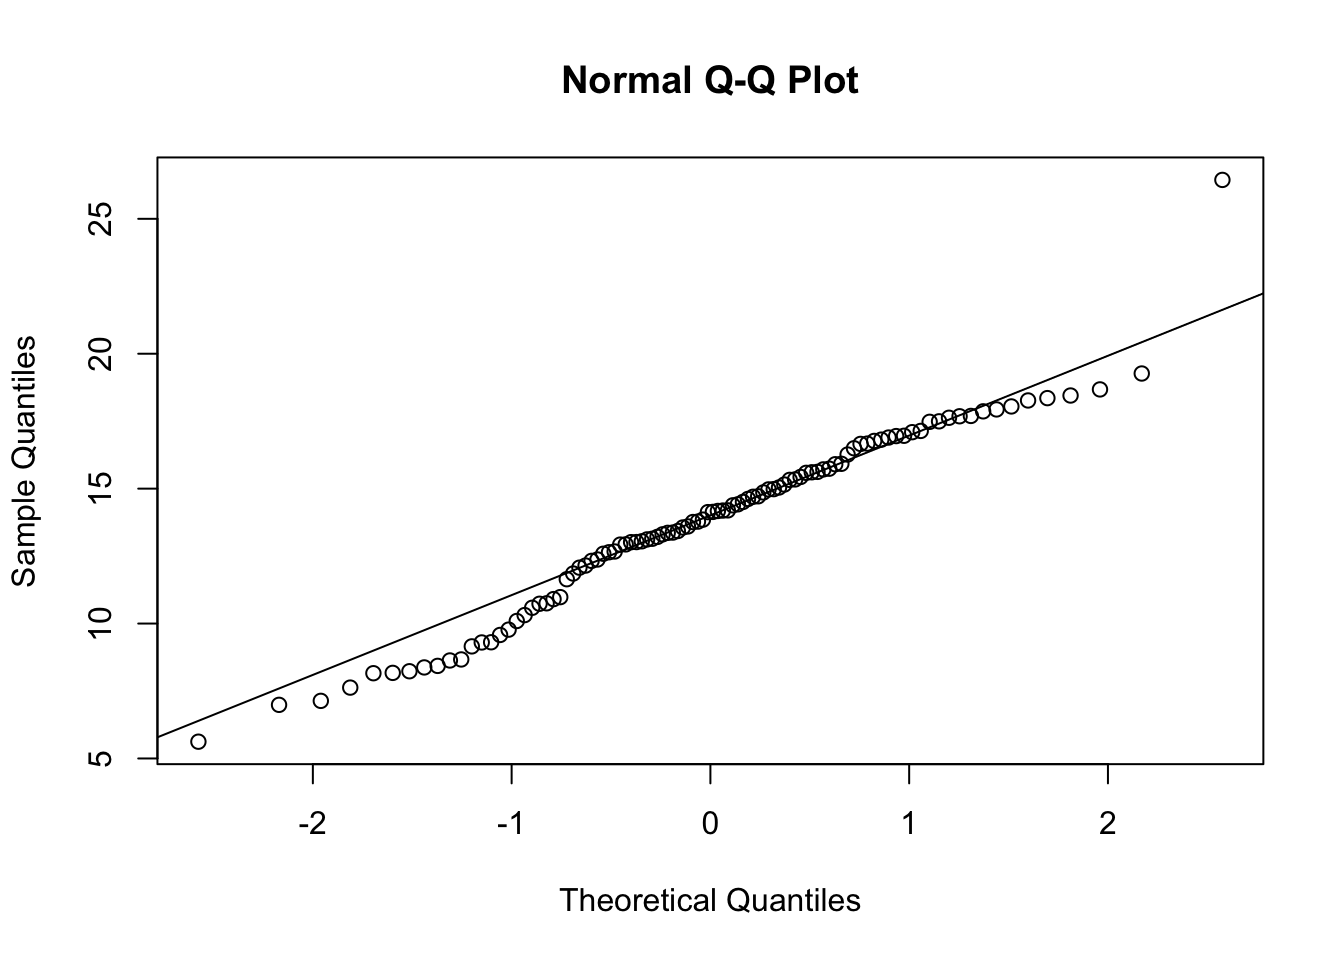
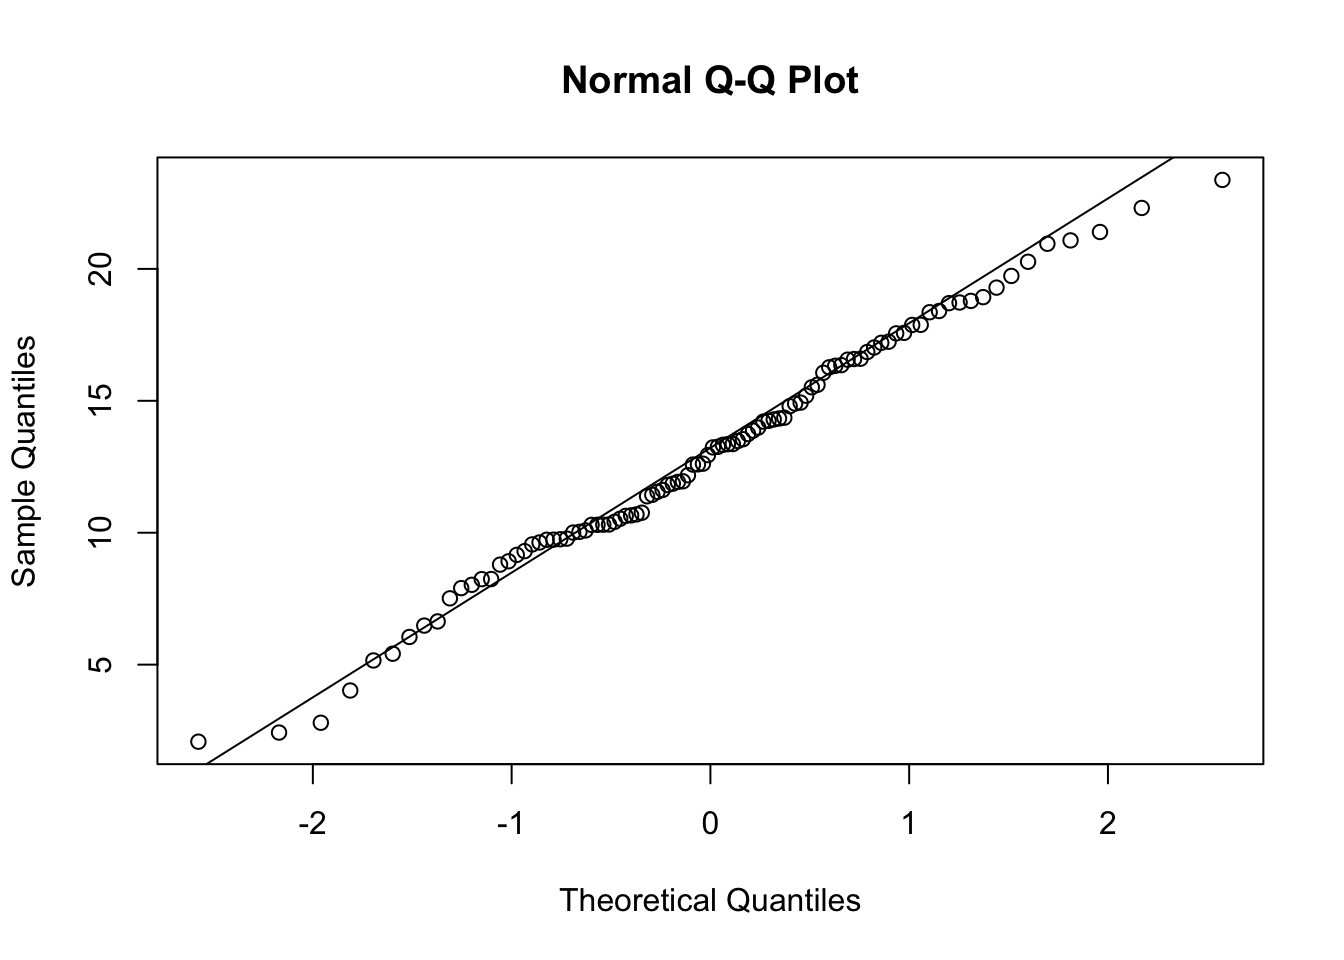
minor edits to language in labs 0 - 3

diff --git a/RLabs/00_R_tutorial_Loading_R_and_RStudio.html b/RLabs/00_R_tutorial_Loading_R_and_RStudio.html
@@ -9,10 +9,9 @@
 <meta http-equiv="X-UA-Compatible" content="IE=EDGE" />
 
 
-<meta name="author" content="Whitlock and Schluter" />
 
 
-<title>Loading R and RStudio</title>
+<title>Labs using R: UBC Edition  Loading R and RStudio</title>
 
 <script src="site_libs/header-attrs-2.31/header-attrs.js"></script>
 <script src="site_libs/jquery-3.6.0/jquery-3.6.0.min.js"></script>
@@ -460,8 +459,8 @@ document.addEventListener("DOMContentLoaded", function() {
 
 
 
-<h1 class="title toc-ignore">Loading R and RStudio</h1>
-<h4 class="author">Whitlock and Schluter</h4>
+<h1 class="title toc-ignore">Labs using R: <em>UBC Edition</em>
+<br>Loading R and RStudio</h1>
 
 </div>
 
@@ -473,15 +472,15 @@ be found <a href="index.html">here</a>.</em></p>
 <p><br></p>
 <p>For these labs, you will need two apps on your computer: R and
 RStudio. Both of these are free, available to download without charge
-from the web. This setup requires a laptop or desktop computer. RStudio
+from the web. This setup requires a laptop or desktop computer; RStudio
 is not natively supported on Chromebooks or iPads/tablets. Desktop
 computers are available to use in 2004 Biological Sciences during BIOL
-300 tutorial times; please consult your section’s TA.</p>
+300 tutorial times (please consult your section’s TA).</p>
 <p>Advanced users are permitted to use VS Code or Positron, but note
-that these apps are not fully endorsed by the BIOL 300 instructional
-team. You may need to adapt instructions on your own. See the sections
-at the end of this page for more information about using VS Code or
-Positron in BIOL 300.</p>
+that these apps are not fully endorsed by us. You may need to adapt
+instructions and/or troubleshoot IDE-related problems on your own. See
+the sections at the end of this page for more information about using VS
+Code or Positron in BIOL 300.</p>
 <p><br></p>
 <div id="step-1-install-r" class="section level1">
 <h1>Step 1: Install R</h1>
@@ -498,11 +497,11 @@ the <code>.dmg</code> file that appears in your downloads folder, and
 then form the folder that opens, click on the <code>XQuartz.pkg</code>
 file. Follow the installation instructions in the new window that
 opens.</p>
-<p>To load R, choose the MacOS link from the CRAN website above. From
-the resulting page (called “R for Mac OS X”) choose the
-<code>.pkg</code> file that matches your version of the operating system
-– usually this is the first one. Once the <code>.pkg</code> file has
-downloaded fully, open it and follow instructions on screen.</p>
+<p>To get R, choose the MacOS link from the CRAN website above. From the
+resulting page (called “R for Mac OS X”) choose the <code>.pkg</code>
+file that matches your version of the operating system – usually this is
+the first one. Once the <code>.pkg</code> file has downloaded fully,
+open it and follow instructions on screen.</p>
 <p><strong>Windows</strong> – After choosing Windows from the CRAN page,
 click on the first link for labeled “base”. Then click on the large top
 link “Download R-X.Y.Z for Windows”. Run the <code>.exe</code> file that
@@ -524,18 +523,18 @@ that downloads.</p>
 </div>
 <div id="step-3-get-abdlabs" class="section level1">
 <h1>Step 3: Get ABDLabs</h1>
-<p>A <code>.zip</code> file that contains all the data sets, R scripts,
-and some other features can be downloaded in a <a
+<p>A <code>.zip</code> file for BIOL 300 that contains all the data
+sets, R scripts, and some other features can be downloaded in a <a
 href="ABDLabs.zip">folder called ABDLabs</a>. <strong>After you download
-this file, first ensure that you move it outside of your computer’s
-<code>Downloads</code> folder</strong>. Keeping this within the
-Downloads problem often causes permission errors and other bugs. Most
-BIOL 300 students end up moving <code>ABDLabs.zip</code> to the Desktop.
-After moving the <code>.zip</code> file, unzip it. It should then open a
-folder called <code>ABDLabs</code>. Windows users: please be sure to
-fully unzip the entire file and not just open the zip file, as this can
-cause problems. The best practice is to right-click on it and choose
-“Extract All” or a similar option.</p>
+this <code>.zip</code> file, first ensure that you move it outside of
+your computer’s <code>Downloads</code> folder</strong>. Keeping this
+within the Downloads problem often causes permission errors and other
+bugs. Most BIOL 300 students end up moving <code>ABDLabs.zip</code> to
+the Desktop. After moving the <code>.zip</code> file, unzip it. It
+should then open a folder called <code>ABDLabs</code>. Windows users:
+please be sure to fully unzip the entire file and not just open the zip
+file, as this can cause problems; the best practice is to right-click on
+it and choose “Extract All” or a similar option.</p>
 <p>Inside <code>ABDLabs</code> is one file and two folders. The folder
 <code>DataForLabs</code> contains all the data sets that you will need
 to complete these labs; any new data we create during the course should
@@ -552,8 +551,8 @@ see further guidance below.</p>
 <p>There is a file in the <code>ABDLabs</code> folder called
 <code>ABDLabs.Rproj</code>. You can double click on this file to start R
 and RStudio automatically. If you start your session from this file, it
-will automatically load some packages of extra functionality that you
-will need for some tasks. Opening <code>ABDLabs.Rproj</code> will also
+will automatically set your working directory in a way that aligns
+smoothly with our tutorials. Opening <code>ABDLabs.Rproj</code> will
 automatically tell R to look inside the <code>ABDLabs</code> folder for
 files like the data sets. Starting from this file will make your life a
 little easier, and will also enforce a standard environment for all
@@ -565,28 +564,28 @@ submitted work.</p>
 <p><em>These labs are designed around RStudio, but we permit usage of
 Visual Studio Code (VS Code) or Positron for those who are already
 familiar with these apps. If you are not familiar with ether VS Code or
-Positron, we strongly recommend that you use RStudio for these
-labs.</em></p>
+Positron, use RStudio for these labs and don’t worry about what is
+written below.</em></p>
 <p>The BIOL 300 instructional team only officially supports RStudio for
 our labs. The tutorials, screenshots, and troubleshooting guidance
 throughout the course assume that you are using RStudio. If you choose
 to use VS Code or Positron instead, you may occasionally need to adapt
-instructions and/or troubleshoot applications-specific issues on your
+instructions and/or troubleshoot application-specific issues on your
 own.</p>
-<p>Regardless of the app you choose, all submitted R scripts must be
-<code>.R</code> file types and must follow BIOL 300 course conventions.
-Your submitted scripts must be able to reproduce results when run in a
-standard RStudio environment. Course conventions include formatting
-expectations, commenting practices, file naming, and script
-organization.</p>
-<p>BIOL 300 does not support the use of Jupyter notebooks. While
+<p><strong>Regardless of the app you choose, all submitted R scripts
+must be <code>.R</code> file types and must follow BIOL 300 course
+conventions.</strong> Your submitted scripts must be able to reproduce
+results when run in a standard RStudio environment. Course conventions
+include formatting expectations, commenting practices, file naming, and
+script organization. Consult your TA if you are uncertain about any of
+these.</p>
+<p>BIOL 300 does not support the use of Jupyter notebooks. Although
 advanced users may be able to configure Jupyter to work with R,
 troubleshooting support for these setups will be limited.</p>
-<div id="using-vs-code-with-r" class="section level2">
-<h2>Using VS Code with R</h2>
+<div id="using-r-in-vs-code" class="section level2">
+<h2>Using R in VS Code</h2>
 <p>To use R in VS Code, you will first need to install the R extension
-for VS Code.</p>
-<p>After installing VS Code, open the Extensions panel and search for
+for VS Code. Within VS Code, open the Extensions panel and search for
 “R” by Yuki Ueda (<code>REditorSupport.r</code>). Installing this
 extension provides features such as syntax highlighting, code execution,
 plotting support, and connections to the R console.</p>
@@ -599,15 +598,13 @@ VS Code’s Explorer or via <code>File → Open Folder...</code>. Doing so
 helps ensure that relative file paths used throughout the labs work
 correctly.</p>
 </div>
-<div id="using-positron-with-r" class="section level2">
-<h2>Using Positron with R</h2>
-<p>Positron is a newer data-science environment developed by Posit, the
-company behind RStudio. It combines features of RStudio and VS Code into
-a modern interface that supports R, Python, Quarto, and other tools.</p>
-<p>Because Positron is still under active development, some features may
-behave differently than they do in RStudio. However, many people find
-that it offers a familiar workflow while also providing additional
-flexibility and modern editing tools.</p>
+<div id="using-r-in-positron" class="section level2">
+<h2>Using R in Positron</h2>
+<p>Positron and RStudio are developed by the same company: Posit.
+Positron combines features of RStudio and VS Code into a modern
+interface that supports R, Python, Quarto, and other tools. Because
+Positron is still under active development, some features may behave
+differently than they do in RStudio.</p>
 <p>The <code>.Rproj</code> file included in the <code>ABDLabs</code>
 folder is primarily intended for use with RStudio. Positron can still
 work with projects that contain <code>.Rproj</code> files, but it does

diff --git a/RLabs/01_R_tutorial_Intro_to_R.html b/RLabs/01_R_tutorial_Intro_to_R.html
@@ -923,9 +923,9 @@ feel that you would like to skip just one of the bits of information and
 fill in the rest, that is fine too. The data sheets do not identify
 students by name. Pass the sheet to the TA when you are finished. We’ll
 use these data in subsequent labs.</p>
-<p><br> 2. For each week, create an R script that captures the commands
-that you use to answer the questions. Use a <code>#</code> at the
-beginning of each comment line.</p>
+<p><br> 2. For each week, create an R script that captures the code that
+you use to answer the questions, along with the answers. Use a
+<code>#</code> at the beginning of each comment line.</p>
 <ol style="list-style-type: lower-alpha">
 <li><p>Open a new R script file. Start by adding comments with your name
 and the week (Week 1) at the top.</p></li>
@@ -934,12 +934,14 @@ comment, followed by any R code you use to do the question, and give the
 answers as comments.</p></li>
 </ol>
 <p>For example, here is what part of your script might look like.</p>
-<div class="sourceCode" id="cb38"><pre class="sourceCode r"><code class="sourceCode r"><span id="cb38-1"><a href="#cb38-1" tabindex="-1"></a><span class="co"># R Labs, Week 1</span></span>
-<span id="cb38-2"><a href="#cb38-2" tabindex="-1"></a><span class="co"># Terry T. Student</span></span>
+<div class="sourceCode" id="cb38"><pre class="sourceCode r"><code class="sourceCode r"><span id="cb38-1"><a href="#cb38-1" tabindex="-1"></a><span class="co"># Terry T. Student</span></span>
+<span id="cb38-2"><a href="#cb38-2" tabindex="-1"></a><span class="co"># BIOL 300, Lab 1</span></span>
 <span id="cb38-3"><a href="#cb38-3" tabindex="-1"></a></span>
-<span id="cb38-4"><a href="#cb38-4" tabindex="-1"></a><span class="co"># Question 4a</span></span>
-<span id="cb38-5"><a href="#cb38-5" tabindex="-1"></a><span class="dv">15</span><span class="sc">*</span><span class="dv">17</span></span>
-<span id="cb38-6"><a href="#cb38-6" tabindex="-1"></a><span class="co"># [1] 255</span></span></code></pre></div>
+<span id="cb38-4"><a href="#cb38-4" tabindex="-1"></a><span class="co"># Question 3b</span></span>
+<span id="cb38-5"><a href="#cb38-5" tabindex="-1"></a><span class="co"># Yes</span></span>
+<span id="cb38-6"><a href="#cb38-6" tabindex="-1"></a></span>
+<span id="cb38-7"><a href="#cb38-7" tabindex="-1"></a><span class="co"># Question 4a</span></span>
+<span id="cb38-8"><a href="#cb38-8" tabindex="-1"></a><span class="co"># body_temp_c</span></span></code></pre></div>
 <p><br> 3. All of the commands used in the “Learning the Tools” section
 for this lab are in a script called <code>LearningToolsWeek1.R</code> in
 the <a href="ABDLabs.zip">ABDLabs folder</a> that you should have
@@ -950,8 +952,10 @@ labs.)</p>
 <li><p>Run most or all of the commands in R. Did you get the same
 answers as shown in the text?</p></li>
 </ol>
-<p><br> 4. For each of the following, come up with a object name that
-would be appropriate to use in R for the listed variable:</p>
+<p><br> 4. For each of the variables below, come up with a object name
+that would be appropriate to use in R. Remember that
+<code>camelCase</code> and <code>snake_case</code> are usually good
+conventions.</p>
 <ol style="list-style-type: lower-alpha">
 <li><p>Body temperature in Celsius</p></li>
 <li><p>How much aspirin is given per dose for a patient</p></li>

diff --git a/RLabs/03_R_tutorial_Sampling.html b/RLabs/03_R_tutorial_Sampling.html
@@ -663,7 +663,7 @@ randomly chooses integers from a given range. To randomly sample 5
 individuals from 25 possibilities, we can use:</li>
 </ol>
 <div class="sourceCode" id="cb1"><pre class="sourceCode r"><code class="sourceCode r"><span id="cb1-1"><a href="#cb1-1" tabindex="-1"></a><span class="fu">sample.int</span>(<span class="at">n =</span> <span class="dv">25</span>, <span class="at">size =</span> <span class="dv">5</span>)</span></code></pre></div>
-<pre><code>## [1] 22 18 19 10  4</code></pre>
+<pre><code>## [1] 10 22 24 12 13</code></pre>
 <p>This tells R to give us a sample of <code>size = 5</code> numbers
 randomly chosen from the integers 1 to <code>n</code>, and here we set
 <code>n = 25</code>. (When you run this line you will almost certainly
@@ -714,7 +714,7 @@ you a step-by-step understaning of how it works.</p>
 <span id="cb3-2"><a href="#cb3-2" tabindex="-1"></a>  population_size <span class="ot">=</span> <span class="fu">length</span>(datalist)  <span class="co"># Establish the size of the &quot;population&quot;</span></span>
 <span id="cb3-3"><a href="#cb3-3" tabindex="-1"></a>  sample_numbers <span class="ot">=</span> <span class="fu">sample.int</span>(population_size,sample_size)  <span class="co"># chooses which individuals to sample</span></span>
 <span id="cb3-4"><a href="#cb3-4" tabindex="-1"></a>  sample_values <span class="ot">=</span> datalist[sample_numbers]  <span class="co"># Looks up the values for those individuals in the data</span></span>
-<span id="cb3-5"><a href="#cb3-5" tabindex="-1"></a>  sample_mean <span class="ot">=</span> <span class="fu">mean</span>(sample_values,<span class="at">na.rm=</span><span class="cn">TRUE</span>)   <span class="co"># Calculates the mean of thoise sampled individuals</span></span>
+<span id="cb3-5"><a href="#cb3-5" tabindex="-1"></a>  sample_mean <span class="ot">=</span> <span class="fu">mean</span>(sample_values,<span class="at">na.rm=</span><span class="cn">TRUE</span>)   <span class="co"># Calculates the mean of those sampled individuals</span></span>
 <span id="cb3-6"><a href="#cb3-6" tabindex="-1"></a>  sample_mean</span>
 <span id="cb3-7"><a href="#cb3-7" tabindex="-1"></a>}</span></code></pre></div>
 <p>If done correctly, you should see <code>mean_from_a_sample</code> in

diff --git a/RLabs/02_R_tutorial_Tabular_data.html b/RLabs/02_R_tutorial_Tabular_data.html
@@ -1064,9 +1064,11 @@ measurements (all data are anonymous). Use the data sheets to create a
 <code>.csv</code> file in Excel or Google Sheets. Include all of five of
 the variables for each of the individuals in the data sheets. Be sure to
 use variable names that are 1) legal in R and 2) intelligible to another
-person who may encounter the file. Save the data file that you make in
-the <code>DataForLabs</code> folder on your computer with the file name
-<code>CollectedDataFromLab1.csv</code>.</p>
+person who may encounter the file (remember that <code>snake_case</code>
+and <code>camelCase</code> are preferred conventions). Save the data
+file that you make in the <code>DataForLabs</code> folder on your
+computer with the file name
+<code>Lab1_section_measurements.csv</code>.</p>
 <ol style="list-style-type: lower-alpha">
 <li><p>Prepare a text file which describes each of the variables in the
 data file. Remember to list the meaning of each variable name, including
@@ -1108,11 +1110,22 @@ ignore the missing data, add an option to the <code>mean()</code>
 command that says <code>na.rm=TRUE</code>. We’ll learn more about this
 later.)</p></li>
 </ol>
-<p><br> 4. Using the <code>countries</code> data again, create a new
-data frame called <code>AfricaData</code> that only includes data for
-countries in Africa via the <code>filter()</code> function. What is the
-sum of the <code>total_population_in_thousands_2015</code> for this new
-data frame?</p>
+<p><br> 4. A researcher wants to examine data from Japan only and writes
+the line:
+<code>japan_data &lt;- filter(countries, country = Japan)</code>. Would
+this line work? If not, make edits to the code. Then determine the value
+of <code>life_expectancy_at_birth_female</code> for Japan, as found in
+<code>japan_data</code>.</p>
+<p><br> 5. Using the <code>countries</code> data, create a new data
+frame called <code>AfricaData</code> that only includes data for
+countries in Africa via the <code>filter()</code> function.</p>
+<ol style="list-style-type: lower-alpha">
+<li><p>How many countries are included in
+<code>AfricaData</code>?</p></li>
+<li><p>What is the sum of the
+<code>total_population_in_thousands_2015</code> in
+<code>AfricaData</code>?</p></li>
+</ol>
 </div>
 
 

diff --git a/RLabs/R_tutorial_Normal_and_sample_means.html b/RLabs/R_tutorial_Normal_and_sample_means.html
@@ -682,9 +682,9 @@ distribution</p>
 numbers drawn from a normal distribution with mean 13 and standard
 deviation 4:</p>
 <div class="sourceCode" id="cb6"><pre class="sourceCode r"><code class="sourceCode r"><span id="cb6-1"><a href="#cb6-1" tabindex="-1"></a><span class="fu">rnorm</span>(<span class="at">n =</span> <span class="dv">20</span>, <span class="at">mean =</span> <span class="dv">13</span>, <span class="at">sd =</span> <span class="dv">4</span>)</span></code></pre></div>
-<pre><code>##  [1] 16.904111  9.099575  9.911033 16.029539 12.266722 10.359638 13.704813
-##  [8] 12.172053  9.603187 13.721286 10.532191 12.398642 12.137113 14.293664
-## [15] 10.405941 17.941248 12.749892 16.698849 22.159045 13.370219</code></pre>
+<pre><code>##  [1] 11.061665 10.661296 11.579208 21.740772  9.588402 12.035179 14.569016
+##  [8] 14.962983 14.693786  9.654120 16.404839 19.620789 10.493699 11.988323
+## [15] 14.463113 15.427200 14.122565  9.379350  9.385846 16.619060</code></pre>
 <p>Let’s look at a QQ plot generated from 100 numbers randomly drawn
 from a normal distribution:</p>
 <div class="sourceCode" id="cb8"><pre class="sourceCode r"><code class="sourceCode r"><span id="cb8-1"><a href="#cb8-1" tabindex="-1"></a>normal_vector <span class="ot">&lt;-</span> <span class="fu">rnorm</span>(<span class="at">n =</span> <span class="dv">100</span>, <span class="at">mean =</span> <span class="dv">13</span>, <span class="at">sd =</span> <span class="dv">4</span>)</span>

diff --git a/RLabs/R_tutorial_Sampling.html b/RLabs/R_tutorial_Sampling.html
@@ -671,7 +671,7 @@ randomly chooses integers from a given range. To randomly sample 5
 individuals from 25 possibilities, we can use:</li>
 </ol>
 <div class="sourceCode" id="cb1"><pre class="sourceCode r"><code class="sourceCode r"><span id="cb1-1"><a href="#cb1-1" tabindex="-1"></a><span class="fu">sample.int</span>(<span class="at">n =</span> <span class="dv">25</span>, <span class="at">size =</span> <span class="dv">5</span>)</span></code></pre></div>
-<pre><code>## [1]  5 16  1 14  9</code></pre>
+<pre><code>## [1] 21  5  6  9 22</code></pre>
 <p>This tells R to give us a set of 5 numbers randomly chosen from the
 integers 1 to 25. (When you run this line you will almost certainly get
 a different output. It is randomly choosing numbers, so we expect
